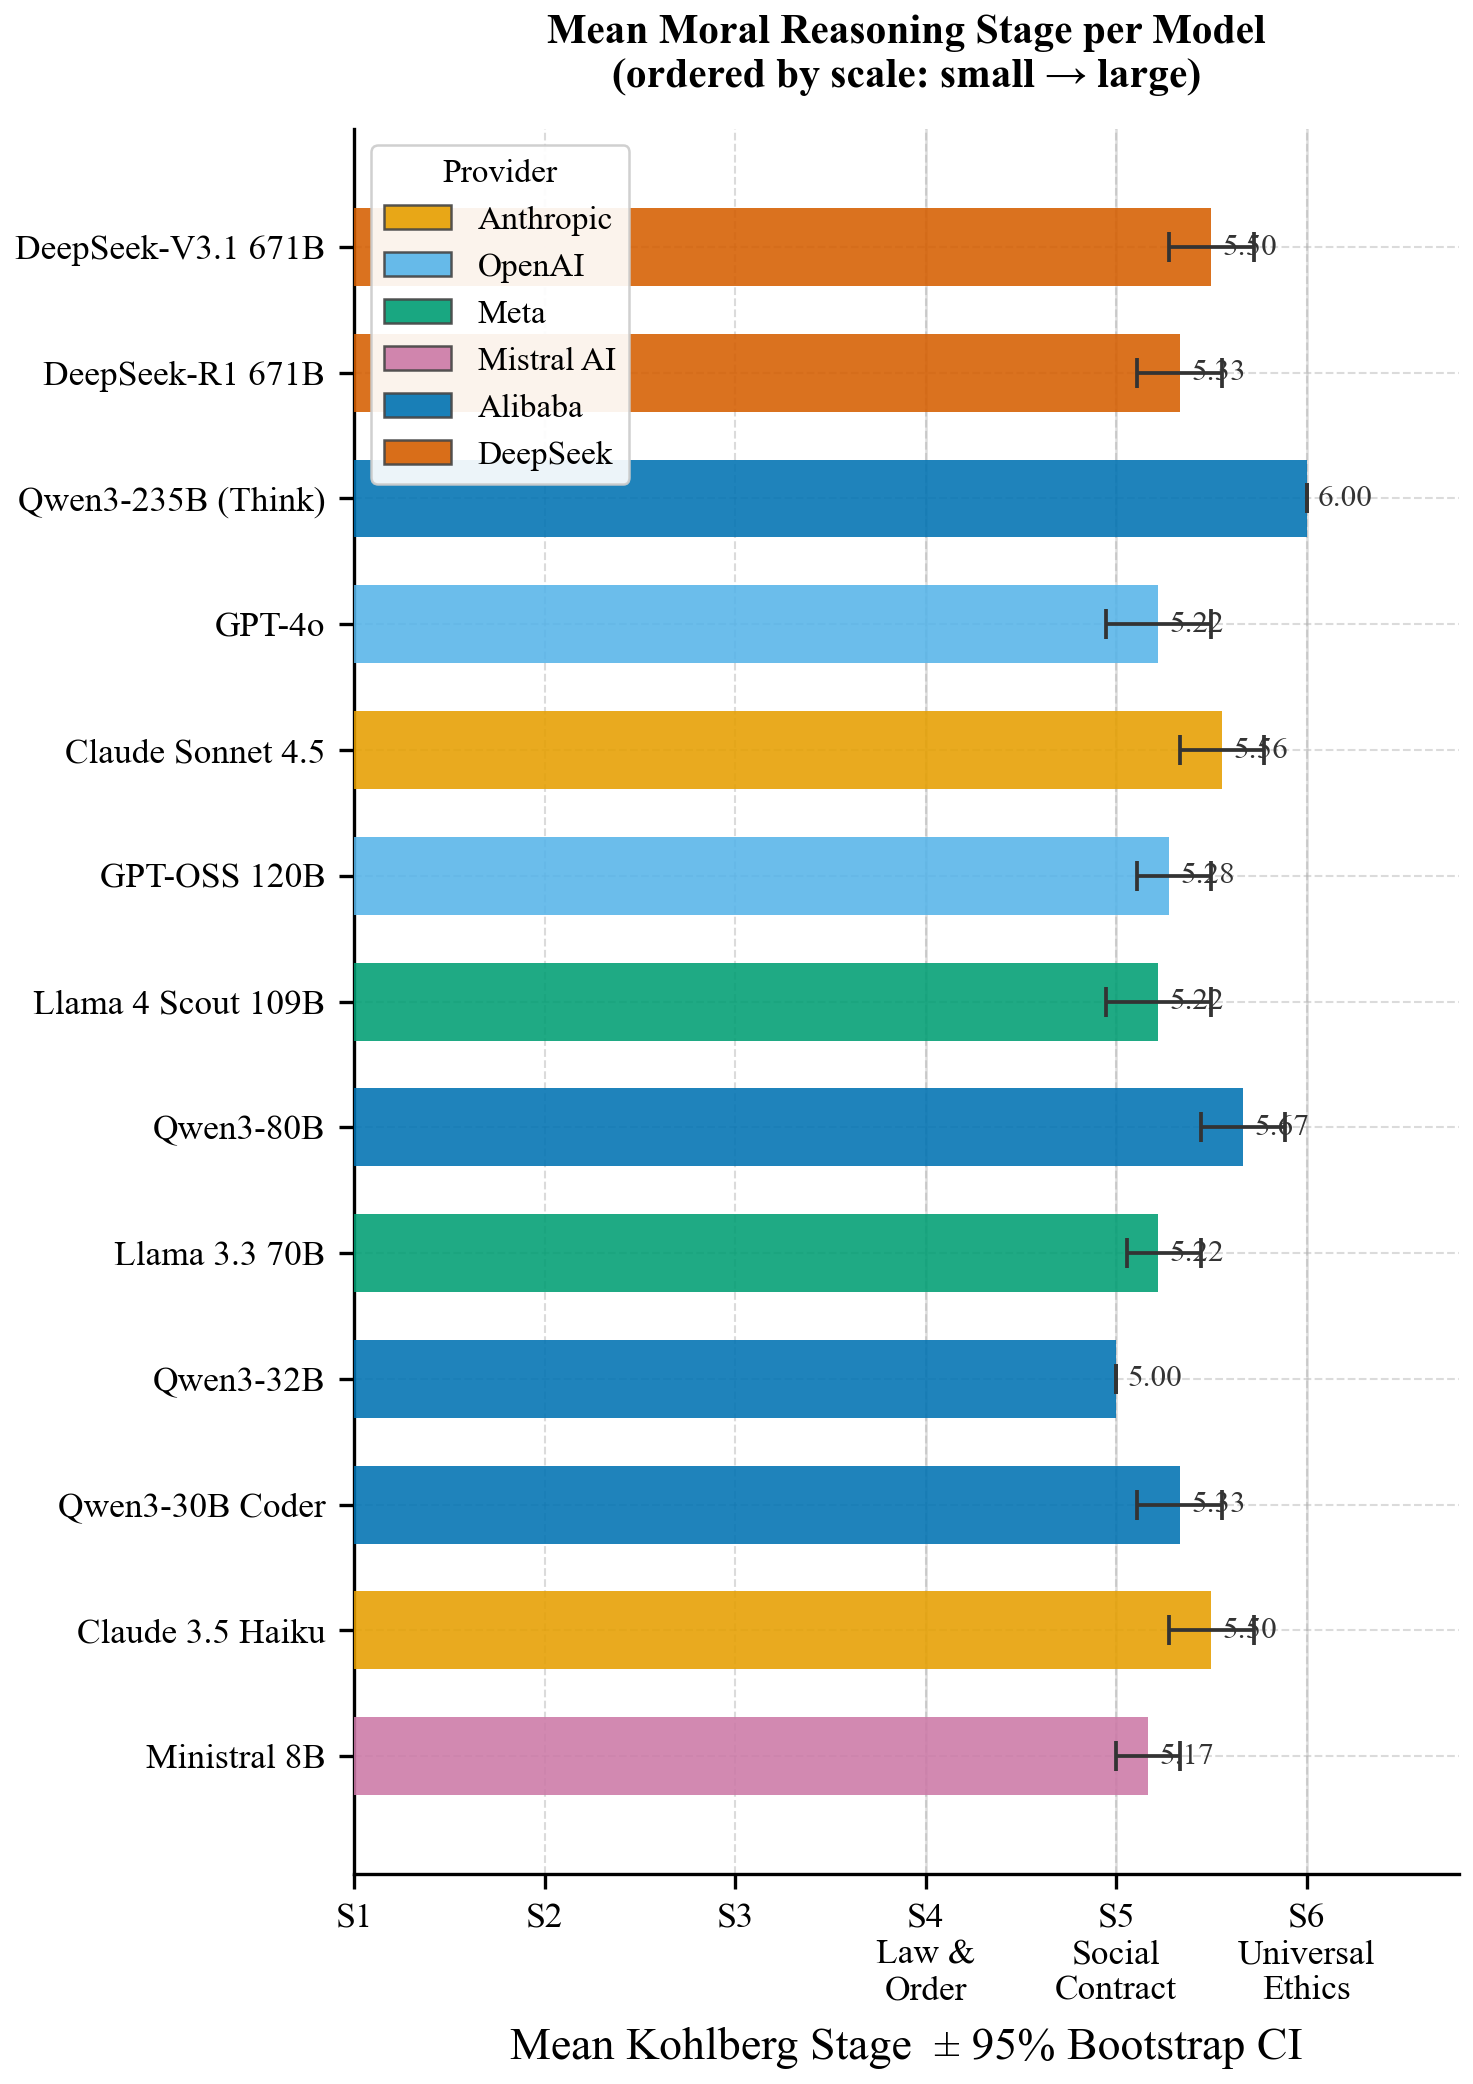
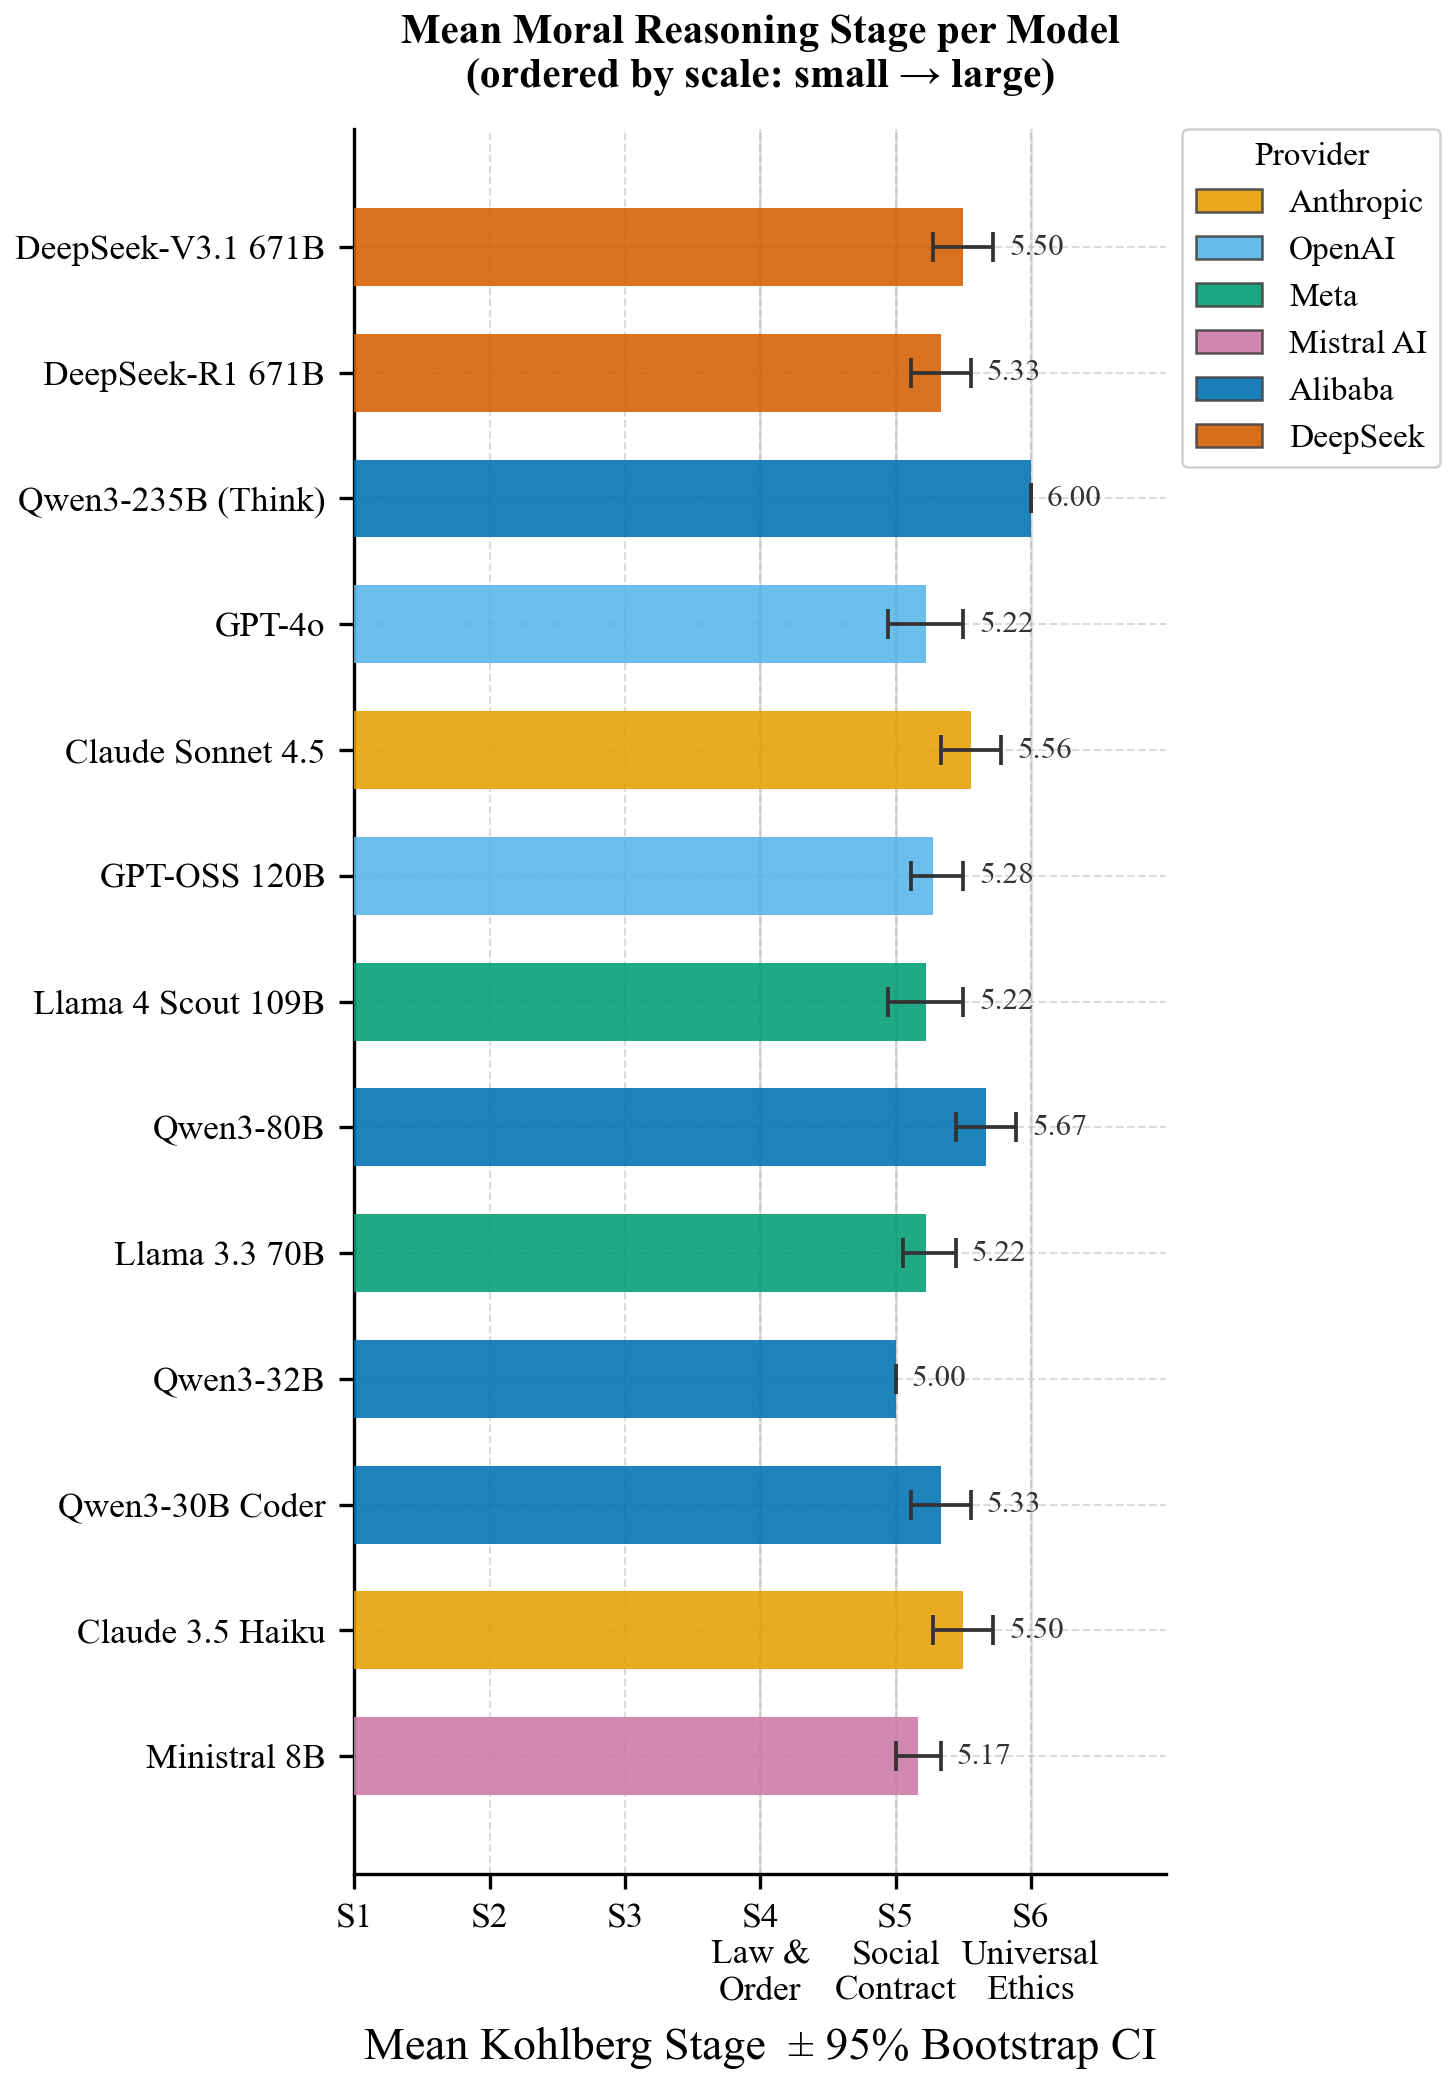
Updated the graphs for analysis1 and analysis2

diff --git a/analysis2/visualizations.py b/analysis2/visualizations.py
@@ -55,7 +55,7 @@ def plot_violin_by_alignment(df: pd.DataFrame, out_dir: Path) -> None:
     Paired violin plots (IT left, RLHF right) showing full stage distributions.
     Individual model mean stages overlaid as jittered dots.
     """
-    fig, ax = plt.subplots(figsize=(120 * MM, 100 * MM))
+    fig, ax = plt.subplots(figsize=(150 * MM, 110 * MM))
 
     # Map alignment to numeric position for seaborn
     order = [IT, RLHF]
@@ -109,11 +109,15 @@ def plot_violin_by_alignment(df: pd.DataFrame, out_dir: Path) -> None:
     for s in ALL_STAGES:
         ax.axhline(s, color="#eeeeee", linewidth=0.5, zorder=0)
 
-    ax.legend(handles=_align_legend_handles(),
-              title="Alignment Type", fontsize=8.5, loc="lower right",
-              framealpha=0.92, edgecolor="#cccccc")
+    # Legend anchored to the right of the axes — completely outside the data area
+    leg = ax.legend(handles=_align_legend_handles(),
+                    title="Alignment Type", fontsize=8.5,
+                    loc="upper left", bbox_to_anchor=(1.03, 1),
+                    framealpha=0.92, edgecolor="#cccccc", borderaxespad=0)
 
     fig.tight_layout()
+    # Reserve the right margin so bbox_inches='tight' in _save keeps the legend
+    fig.subplots_adjust(right=0.78)
     _save(fig, out_dir, "fig1_violin_by_alignment.png")
 
 
@@ -130,7 +134,7 @@ def plot_family_comparisons(
     Effect size and significance annotated.
     """
     n = len(family_results)
-    fig, ax = plt.subplots(figsize=(160 * MM, max(80, n * 22) * MM))
+    fig, ax = plt.subplots(figsize=(175 * MM, max(90, n * 24) * MM))
 
     bar_h = 0.32
     y_base = np.arange(n) * 1.1   # spacing between pairs
@@ -149,9 +153,10 @@ def plot_family_comparisons(
 
         # Δ annotation + significance (plain ASCII — avoids missing-glyph warning)
         sig = "*" if row["p_value"] < 0.05 else "n.s."
-        d_str = f"d={row['cohens_d']:+.2f}, {sig}"
+        cd = row["cohens_d"]
+        d_str = (f"d={cd:+.2f}, {sig}") if pd.notna(cd) else f"d=N/A, {sig}"
         max_val = max(row["mean_a"], row["mean_b"])
-        ax.text(max_val + 0.05, y_base[i], d_str,
+        ax.text(max_val + 0.08, y_base[i], d_str,
                 va="center", fontsize=7.5, color="#333")
 
         # Model labels at bar start
@@ -162,24 +167,27 @@ def plot_family_comparisons(
 
     ax.set_yticks(y_base)
     ax.set_yticklabels(family_results["comparison"], fontsize=9)
-    ax.set_xlim(0, 7.0)
+    ax.set_xlim(0, 7.5)   # extra room on the right for the d= text
     ax.set_xticks(range(1, 7))
     ax.set_xticklabels([f"S{s}" for s in range(1, 7)], fontsize=9)
     ax.set_xlabel("Mean Kohlberg Stage", labelpad=5)
     ax.set_title(
         "Within-Family Comparisons: Mean Moral Reasoning Stage\n"
-        "(Δ = model B − model A; ✓ = p < 0.05 Wilcoxon rank-sum)",
+        "(d = Cohen's d, * = p < 0.05 Wilcoxon rank-sum)",
         fontsize=10, pad=10, fontweight="bold",
     )
 
     for s in range(1, 7):
         ax.axvline(s, color="#eeeeee", linewidth=0.6, zorder=0)
 
+    # Legend completely outside the data area — anchored to the right of the axes
     ax.legend(handles=_align_legend_handles(),
-              title="Alignment Type", fontsize=8.5, loc="lower right",
-              framealpha=0.92, edgecolor="#cccccc")
+              title="Alignment Type", fontsize=8.5,
+              loc="upper left", bbox_to_anchor=(1.03, 1),
+              framealpha=0.92, edgecolor="#cccccc", borderaxespad=0)
 
     fig.tight_layout()
+    fig.subplots_adjust(right=0.78)
     _save(fig, out_dir, "fig2_family_comparisons.png")
 
 
@@ -195,7 +203,7 @@ def plot_stacked_stage_dist(align_stats: pd.DataFrame, out_dir: Path) -> None:
     # Sequential palette for Kohlberg stages (low=warm, high=cool)
     stage_palette = ["#d73027", "#fc8d59", "#fee090", "#91bfdb", "#4575b4", "#1a237e"]
 
-    fig, ax = plt.subplots(figsize=(140 * MM, 70 * MM))
+    fig, ax = plt.subplots(figsize=(150 * MM, 90 * MM))
 
     lefts = np.zeros(len(order))
     for s, col, color in zip(ALL_STAGES, stage_cols, stage_palette):
@@ -222,10 +230,13 @@ def plot_stacked_stage_dist(align_stats: pd.DataFrame, out_dir: Path) -> None:
     ax.set_yticklabels(order, fontsize=9.5)
     ax.set_xticks(range(0, 101, 20))
 
-    ax.legend(title="Kohlberg Stage", fontsize=8.5, title_fontsize=9,
-              loc="lower right", ncol=3, framealpha=0.92, edgecolor="#cccccc")
+    # Legend placed below the axes — use subplots_adjust for reliable clearance
+    leg = ax.legend(title="Kohlberg Stage", fontsize=8.5, title_fontsize=9,
+                    loc="upper center", bbox_to_anchor=(0.5, -0.18),
+                    ncol=6, framealpha=0.92, edgecolor="#cccccc", borderaxespad=0)
 
     fig.tight_layout()
+    fig.subplots_adjust(bottom=0.28)   # enough room below for the 2-row legend
     _save(fig, out_dir, "fig3_stacked_stage_dist.png")
 
 
@@ -239,7 +250,7 @@ def plot_pct_postconv(model_stats: pd.DataFrame, out_dir: Path) -> None:
     s = model_stats.sort_values("pct_post_conv")
     n = len(s)
 
-    fig, ax = plt.subplots(figsize=(130 * MM, max(80, n * 13) * MM))
+    fig, ax = plt.subplots(figsize=(145 * MM, max(90, n * 13) * MM))
 
     y_pos = np.arange(n)
     colors = [ALIGN_COLORS[a] for a in s["alignment_type"]]
@@ -257,14 +268,14 @@ def plot_pct_postconv(model_stats: pd.DataFrame, out_dir: Path) -> None:
     ax.axvline(rlhf_mean, color=ALIGN_COLORS[RLHF], linewidth=1.2,
                linestyle="--", alpha=0.7, label=f"RLHF mean = {rlhf_mean:.1f}%")
 
-    # Annotate values
+    # Annotate values — offset to the left of the dot to avoid right-edge clipping
     for xi, yi, val in zip(s["pct_post_conv"], y_pos, s["pct_post_conv"]):
-        ax.text(xi + 1.2, yi, f"{val:.0f}%", va="center", fontsize=7.5)
+        ax.text(xi - 1.5, yi, f"{val:.0f}%", va="center", ha="right", fontsize=7.5)
 
     ax.set_yticks(y_pos)
     ax.set_yticklabels(s["display_name"], fontsize=8.5)
-    ax.set_xlim(0, 115)
-    ax.set_xlabel(f"% of Responses at Stage ≥ {POST_CONV_THRESHOLD} (Post-Conventional)",
+    ax.set_xlim(0, 110)
+    ax.set_xlabel(f"% of Responses at Stage >= {POST_CONV_THRESHOLD} (Post-Conventional)",
                   labelpad=5)
     ax.set_title(
         "Post-Conventional Reasoning Rate per Model\n"
@@ -272,13 +283,15 @@ def plot_pct_postconv(model_stats: pd.DataFrame, out_dir: Path) -> None:
         fontsize=10, pad=10, fontweight="bold",
     )
 
+    # Data is clustered at the top-right; place legend at the bottom-left where space is free
     ax.legend(handles=_align_legend_handles() + [
         mlines.Line2D([], [], color=ALIGN_COLORS[IT],   linewidth=1.2,
                       linestyle="--", label=f"IT mean = {it_mean:.1f}%"),
         mlines.Line2D([], [], color=ALIGN_COLORS[RLHF], linewidth=1.2,
                       linestyle="--", label=f"RLHF mean = {rlhf_mean:.1f}%"),
-    ], fontsize=7.5, title="Legend", loc="lower right",
-              framealpha=0.92, edgecolor="#cccccc")
+    ], fontsize=7.5, title="Legend",
+              loc="lower left", bbox_to_anchor=(0.02, 0.01),
+              framealpha=0.92, edgecolor="#cccccc", borderaxespad=0)
 
     fig.tight_layout()
     _save(fig, out_dir, "fig4_pct_postconv.png")

diff --git a/analysis1/visualizations.py b/analysis1/visualizations.py
@@ -142,12 +142,13 @@ def plot_box_by_model(
     )
     ax.set_xlim(0.5, 6.7)
 
-    # Provider legend (top-right)
+    # Provider legend — outside the axes on the right so no box is obscured
     leg = ax.legend(
         handles=_provider_legend_handles(),
         title="Provider", title_fontsize=8,
-        loc="lower right", fontsize=8,
-        framealpha=0.92, edgecolor="#cccccc",
+        loc="upper left", bbox_to_anchor=(1.02, 1),
+        fontsize=8, framealpha=0.92, edgecolor="#cccccc",
+        borderaxespad=0,
     )
     leg.get_frame().set_linewidth(0.6)
 
@@ -156,6 +157,7 @@ def plot_box_by_model(
         ax.axvline(s, color="#dddddd", linewidth=0.6, zorder=0)
 
     fig.tight_layout()
+    fig.subplots_adjust(right=0.78)
     _save(fig, out_dir, "fig1_box_stage_by_model.png")
 
 
@@ -213,7 +215,7 @@ def plot_scatter_scale_stage(
         "\n"
         rf"95% CI [{corr['ci_lo']:.3f}, {corr['ci_hi']:.3f}]"
         "\n"
-        rf"$R^2$ = {corr['r2']:.3f},  {sig_str}"
+        rf"$\rho^2$ = {corr['r2']:.3f},  {sig_str}"
         "\n"
         rf"Effect: {corr['effect']}"
     )
@@ -251,23 +253,24 @@ def plot_scatter_scale_stage(
     ax.set_ylim(4.5, 6.7)
 
     ax.set_xlabel("Model Scale  (approximate parameter count, log scale)", labelpad=6)
-    ax.set_ylabel("Mean Kohlberg Stage  ± 95% Bootstrap CI", labelpad=5)
+    ax.set_ylabel("Mean Kohlberg Stage  +/- 95% Bootstrap CI", labelpad=5)
     ax.set_title(
         "Model Scale vs. Moral Reasoning Stage",
         fontsize=11, pad=10, fontweight="bold",
     )
 
-    # Legend
+    # Legend — anchor to the right of the axes; data cluster is at lower-right
     leg_handles = _provider_legend_handles()
     leg_handles.append(
         mlines.Line2D([], [], color="#555555", linewidth=1.2,
                       linestyle="--", label="Linear trend (OLS)")
     )
     ax.legend(handles=leg_handles, title="Provider", fontsize=7.5,
-              title_fontsize=8, loc="lower right",
-              framealpha=0.92, edgecolor="#cccccc")
+              title_fontsize=8, loc="upper left", bbox_to_anchor=(1.02, 1),
+              framealpha=0.92, edgecolor="#cccccc", borderaxespad=0)
 
     fig.tight_layout()
+    fig.subplots_adjust(right=0.78)
     _save(fig, out_dir, "fig2_scatter_scale_vs_stage.png")
 
 
@@ -365,16 +368,16 @@ def plot_mean_stage_bar(summary: pd.DataFrame, out_dir: Path) -> None:
         zorder=3,
     )
 
-    # Annotate bar ends
-    for bar, val in zip(bars, s["mean_stage"]):
+    # Annotate bar ends — offset past the CI cap so text doesn't clip
+    for bar, val, hi in zip(bars, s["mean_stage"], s["ci_hi"]):
         ax.text(
-            val + 0.06,
+            hi + 0.12,
             bar.get_y() + bar.get_height() / 2,
             f"{val:.2f}",
             va="center", fontsize=7.5, color="#333333",
         )
 
-    ax.set_xlim(4.0, 6.8)
+    ax.set_xlim(4.0, 7.0)
     ax.set_xticks(range(1, 7))
     ax.set_xticklabels(
         ["S1", "S2", "S3", "S4\nLaw &\nOrder",
@@ -394,14 +397,16 @@ def plot_mean_stage_bar(summary: pd.DataFrame, out_dir: Path) -> None:
     for s_val in range(4, 7):
         ax.axvline(s_val, color="#dddddd", linewidth=0.6, zorder=0)
 
-    # Provider legend (top left)
+    # Provider legend — outside axes to the right, clear of all bars
     leg = ax.legend(
         handles=_provider_legend_handles(),
         title="Provider", title_fontsize=8,
-        loc="upper left", fontsize=8,
-        framealpha=0.92, edgecolor="#cccccc",
+        loc="upper left", bbox_to_anchor=(1.02, 1),
+        fontsize=8, framealpha=0.92, edgecolor="#cccccc",
+        borderaxespad=0,
     )
     leg.get_frame().set_linewidth(0.6)
 
     fig.tight_layout()
+    fig.subplots_adjust(right=0.78)
     _save(fig, out_dir, "fig4_bar_mean_stage.png")

diff --git a/analysis1/stat_analysis.py b/analysis1/stat_analysis.py
@@ -135,6 +135,8 @@ def spearman_with_ci(
     else:
         effect = "negligible"
 
+    # rho2 = Spearman rho squared (proportion of variance in ranks explained)
+    # Keep key as 'r2' for backward compatibility with downstream consumers
     return dict(rho=float(rho), p=float(p),
                 ci_lo=ci_lo, ci_hi=ci_hi,
                 r2=float(rho ** 2), effect=effect)
@@ -145,10 +147,11 @@ def spearman_with_ci(
 def run_nonparametric_tests(df: pd.DataFrame) -> dict:
     """
     Kruskal-Wallis H test across all models, followed by
-    Dunn pairwise post-hoc with Bonferroni correction.
+    Dunn pairwise post-hoc with Holm-Bonferroni correction.
 
     Returns dict with keys:
-        kw_stat, kw_p, dunn  (dunn is a pd.DataFrame of adjusted p-values)
+        kw_stat, kw_p, dunn  (dunn is a pd.DataFrame of adjusted p-values
+                               with display_name labels)
     """
     groups = [g["kohlberg_stage"].values for _, g in df.groupby("model_key")]
     kw_stat, kw_p = kruskal(*groups)
@@ -157,6 +160,16 @@ def run_nonparametric_tests(df: pd.DataFrame) -> dict:
         df,
         val_col="kohlberg_stage",
         group_col="model_key",
-        p_adjust="bonferroni",
+        p_adjust="holm",   # Holm-Bonferroni: controls FWER, less conservative than raw Bonferroni
     )
+
+    # Remap model_key → display_name for readable output
+    key_to_name = (
+        df[["model_key", "display_name"]]
+        .drop_duplicates()
+        .set_index("model_key")["display_name"]
+        .to_dict()
+    )
+    dunn_df = dunn_df.rename(index=key_to_name, columns=key_to_name)
+
     return dict(kw_stat=float(kw_stat), kw_p=float(kw_p), dunn=dunn_df)

diff --git a/analysis1/reporting.py b/analysis1/reporting.py
@@ -81,7 +81,7 @@ def print_report(
     print(f"  95% CI       = [{corr['ci_lo']:.4f},  {corr['ci_hi']:.4f}]")
     print(f"  p-value      = {corr['p']:.6f}"
           + ("  ✓ sig. (α=0.05)" if corr["p"] < 0.05 else "  ✗ not sig."))
-    print(f"  R²           = {corr['r2']:.4f}  ({corr['r2']*100:.1f}% variance explained)")
+    print(f"  rho^2        = {corr['r2']:.4f}  ({corr['r2']*100:.1f}% variance in ranks explained)")
     print(f"  Effect size  = {corr['effect']}")
 
     # ── Kruskal-Wallis ────────────────────────────────────────────────────
@@ -101,7 +101,7 @@ def print_report(
         f"  There is a {direction} {corr['effect']}-effect correlation (ρ = {corr['rho']:.3f})\n"
         f"  between model parameter scale (log) and mean Kohlberg stage.\n"
         f"  This correlation is {sig_label}.\n"
-        f"  Scale explains ~{corr['r2']*100:.1f}% of variance in mean moral reasoning stage.\n"
+        f"  Scale (rho^2) explains ~{corr['r2']*100:.1f}% of variance in rank order of mean moral reasoning stage.\n"
         "\n"
         f"  Kruskal-Wallis confirms that between-model differences are\n"
         f"  {'highly' if tests['kw_p'] < 0.001 else ''} significant (p = {tests['kw_p']:.2e}),\n"
